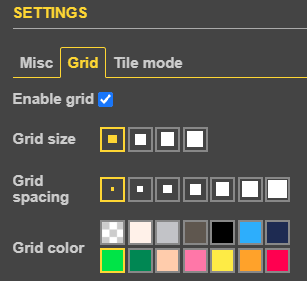
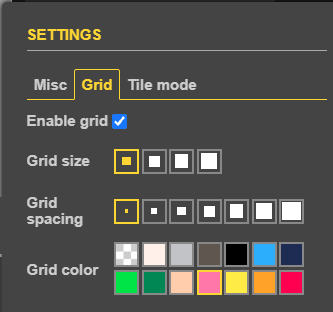
Piskel lessons: Grid tab screenshot with Pink picked
Claude-Session: https://claude.ai/code/session_0163dwnT656jUnDkoJDXqKES

diff --git a/piskel/lesson-00-three-platforms/index.html b/piskel/lesson-00-three-platforms/index.html
@@ -134,7 +134,7 @@
 <li>Click <b>Maintain aspect ratio</b> to <b>untick</b> it. While it is ticked, Piskel keeps the canvas square and changes the Height whenever you change the Width.</li>
 <li>Type <b>64</b> in <b>Width</b> and <b>16</b> in <b>Height</b>, then click the <b>Resize</b> button at the bottom of the panel. The canvas becomes a long, flat strip.</li>
 <li>Click the Resize icon again to close the panel.</li>
-<li><b>Set up the grid first.</b> Click the <b>Settings</b> icon <img src="../../assets/piskel/icon-settings.png" alt="Settings icon: a gear" width="28" height="27" style="height:1.6em;width:auto;vertical-align:middle;margin:0 .25em;border-radius:3px"> (the gear in the strip on the far right edge). A panel slides out on the <b>Misc</b> tab. Beside <b>Background</b>, click the <b>third</b> square (plain light grey). The checkerboard behind your drawing looks like a grid of its own and hides the real grid lines, so a plain background makes them stand out.<img src="../../assets/piskel/settings-background.png" alt="Settings panel, Misc tab: four Background choices, two checkerboards and two plain greys" width="230" height="76" style="display:block;max-width:100%;height:auto;margin:.5em 0;border:1px solid #ccc;border-radius:6px">Now click the <b>Grid</b> tab and set:<table><tr><th>Grid tab</th><th>Setting</th></tr><tr><td>Enable grid</td><td>Ticked</td></tr><tr><td>Grid size</td><td>First square (thinnest lines)</td></tr><tr><td>Grid spacing</td><td>First square (a line around every pixel)</td></tr><tr><td>Grid color</td><td>Pink or hot pink (bottom row, toward the right). Green would vanish on the grass, and black or dark colours blend into the dark brown outlines.</td></tr></table><img src="../../assets/piskel/settings-grid.png" alt="Settings panel, Grid tab: Enable grid ticked, smallest Grid size, smallest Grid spacing, and a row of Grid colour swatches" width="307" height="281" style="display:block;max-width:100%;height:auto;margin:.5em 0;border:1px solid #ccc;border-radius:6px"><i>In this picture green is picked. Pick the colour in the table instead.</i> Thin lines appear on the canvas, one square per pixel. Click the gear again to close the panel. Your strip should look like this:<img src="../../assets/piskel/platforms-grid-result.png?v=3" alt="The 64 by 16 canvas covered in a grid of thin pink lines, with the Settings, Resize, Save, Export and Open icons down the right edge" width="1076" height="300" style="display:block;max-width:100%;height:auto;margin:.5em 0;border:1px solid #ccc;border-radius:6px"></li>
+<li><b>Set up the grid first.</b> Click the <b>Settings</b> icon <img src="../../assets/piskel/icon-settings.png" alt="Settings icon: a gear" width="28" height="27" style="height:1.6em;width:auto;vertical-align:middle;margin:0 .25em;border-radius:3px"> (the gear in the strip on the far right edge). A panel slides out on the <b>Misc</b> tab. Beside <b>Background</b>, click the <b>third</b> square (plain light grey). The checkerboard behind your drawing looks like a grid of its own and hides the real grid lines, so a plain background makes them stand out.<img src="../../assets/piskel/settings-background.png" alt="Settings panel, Misc tab: four Background choices, two checkerboards and two plain greys" width="230" height="76" style="display:block;max-width:100%;height:auto;margin:.5em 0;border:1px solid #ccc;border-radius:6px">Now click the <b>Grid</b> tab and set:<table><tr><th>Grid tab</th><th>Setting</th></tr><tr><td>Enable grid</td><td>Ticked</td></tr><tr><td>Grid size</td><td>First square (thinnest lines)</td></tr><tr><td>Grid spacing</td><td>First square (a line around every pixel)</td></tr><tr><td>Grid color</td><td>Pink (bottom row, fourth square). Green would vanish on the grass, and black or dark colours blend into the dark brown outlines.</td></tr></table><img src="../../assets/piskel/settings-grid.png?v=2" alt="Settings panel, Grid tab: Enable grid ticked, smallest Grid size, smallest Grid spacing, and Pink picked in the Grid color swatches" width="333" height="312" style="display:block;max-width:100%;height:auto;margin:.5em 0;border:1px solid #ccc;border-radius:6px">Thin lines appear on the canvas, one square per pixel. Click the gear again to close the panel. Your strip should look like this:<img src="../../assets/piskel/platforms-grid-result.png?v=3" alt="The 64 by 16 canvas covered in a grid of thin pink lines, with the Settings, Resize, Save, Export and Open icons down the right edge" width="1076" height="300" style="display:block;max-width:100%;height:auto;margin:.5em 0;border:1px solid #ccc;border-radius:6px"></li>
 <li><b>Quick on/off button.</b> Once the grid is set up, you can hide or show it without opening Settings. Move your mouse to the top of the <b>Preview</b> window (top-right corner, just under the <b>Create Sprite</b> button). Three small buttons appear. They stay hidden until the mouse is over them.<img src="../../assets/piskel/preview-buttons.png" alt="Three buttons above the Preview window, under Create Sprite: 1x, a grid symbol, and an arrow" width="245" height="107" style="display:block;max-width:100%;height:auto;margin:.5em 0;border:1px solid #ccc;border-radius:6px">The middle one, <b>#</b>, turns the grid off and on. Click it twice to try it, and leave the grid on.</li>
 <li>Scroll the mouse wheel over the canvas to zoom in until the strip fills the middle of the screen.</li>
 </ol>

diff --git a/piskel/lesson-00-jumping-alien/index.html b/piskel/lesson-00-jumping-alien/index.html
@@ -120,7 +120,7 @@
 <ol>
 <li>Click the <b>Resize</b> icon <img class="icon" src="../../assets/piskel/icon-resize.png" alt="Resize icon: a square with an arrow pointing to the top-right corner" width="28" height="26"> (top of the strip on the far right edge). A panel slides out showing <b>Width</b> and <b>Height</b>.</li>
 <li>Check both say <b>32</b>. This is Piskel's starting size, so you usually only need to check. If they are different, type <b>32</b> and <b>32</b> and click <b>Resize</b>. Click the Resize icon again to close the panel.</li>
-<li><b>Set up the grid first.</b> Click the <b>Settings</b> icon <img src="../../assets/piskel/icon-settings.png" alt="Settings icon: a gear" width="28" height="27" style="height:1.6em;width:auto;vertical-align:middle;margin:0 .25em;border-radius:3px"> (the gear in the strip on the far right edge). A panel slides out on the <b>Misc</b> tab. Beside <b>Background</b>, click the <b>third</b> square (plain light grey). The checkerboard behind your drawing looks like a grid of its own and hides the real grid lines, so a plain background makes them stand out.<img src="../../assets/piskel/settings-background.png" alt="Settings panel, Misc tab: four Background choices, two checkerboards and two plain greys" width="230" height="76" style="display:block;max-width:100%;height:auto;margin:.5em 0;border:1px solid #ccc;border-radius:6px">Now click the <b>Grid</b> tab and set:<table><tr><th>Grid tab</th><th>Setting</th></tr><tr><td>Enable grid</td><td>Ticked</td></tr><tr><td>Grid size</td><td>First square (thinnest lines)</td></tr><tr><td>Grid spacing</td><td>First square (a line around every pixel)</td></tr><tr><td>Grid color</td><td>Pink or hot pink (bottom row, toward the right), or any bright colour that is not one of your alien's colours.</td></tr></table><img src="../../assets/piskel/settings-grid.png" alt="Settings panel, Grid tab: Enable grid ticked, smallest Grid size, smallest Grid spacing, and a row of Grid colour swatches" width="307" height="281" style="display:block;max-width:100%;height:auto;margin:.5em 0;border:1px solid #ccc;border-radius:6px"><i>In this picture green is picked. Pick the colour in the table instead.</i> Thin lines appear on the canvas, one square per pixel. Click the gear again to close the panel.</li>
+<li><b>Set up the grid first.</b> Click the <b>Settings</b> icon <img src="../../assets/piskel/icon-settings.png" alt="Settings icon: a gear" width="28" height="27" style="height:1.6em;width:auto;vertical-align:middle;margin:0 .25em;border-radius:3px"> (the gear in the strip on the far right edge). A panel slides out on the <b>Misc</b> tab. Beside <b>Background</b>, click the <b>third</b> square (plain light grey). The checkerboard behind your drawing looks like a grid of its own and hides the real grid lines, so a plain background makes them stand out.<img src="../../assets/piskel/settings-background.png" alt="Settings panel, Misc tab: four Background choices, two checkerboards and two plain greys" width="230" height="76" style="display:block;max-width:100%;height:auto;margin:.5em 0;border:1px solid #ccc;border-radius:6px">Now click the <b>Grid</b> tab and set:<table><tr><th>Grid tab</th><th>Setting</th></tr><tr><td>Enable grid</td><td>Ticked</td></tr><tr><td>Grid size</td><td>First square (thinnest lines)</td></tr><tr><td>Grid spacing</td><td>First square (a line around every pixel)</td></tr><tr><td>Grid color</td><td>Pink (bottom row, fourth square), or any bright colour that is not one of your alien's colours.</td></tr></table><img src="../../assets/piskel/settings-grid.png?v=2" alt="Settings panel, Grid tab: Enable grid ticked, smallest Grid size, smallest Grid spacing, and Pink picked in the Grid color swatches" width="333" height="312" style="display:block;max-width:100%;height:auto;margin:.5em 0;border:1px solid #ccc;border-radius:6px">Thin lines appear on the canvas, one square per pixel. Click the gear again to close the panel.</li>
 <li><b>Quick on/off button.</b> Once the grid is set up, you can hide or show it without opening Settings. Move your mouse to the top of the <b>Preview</b> window (top-right corner, just under the <b>Create Sprite</b> button). Three small buttons appear. They stay hidden until the mouse is over them.<img src="../../assets/piskel/preview-buttons.png" alt="Three buttons above the Preview window, under Create Sprite: 1x, a grid symbol, and an arrow" width="245" height="107" style="display:block;max-width:100%;height:auto;margin:.5em 0;border:1px solid #ccc;border-radius:6px">The middle one, <b>#</b>, turns the grid off and on. Click it twice to try it, and leave the grid on.</li>
 </ol>
 
